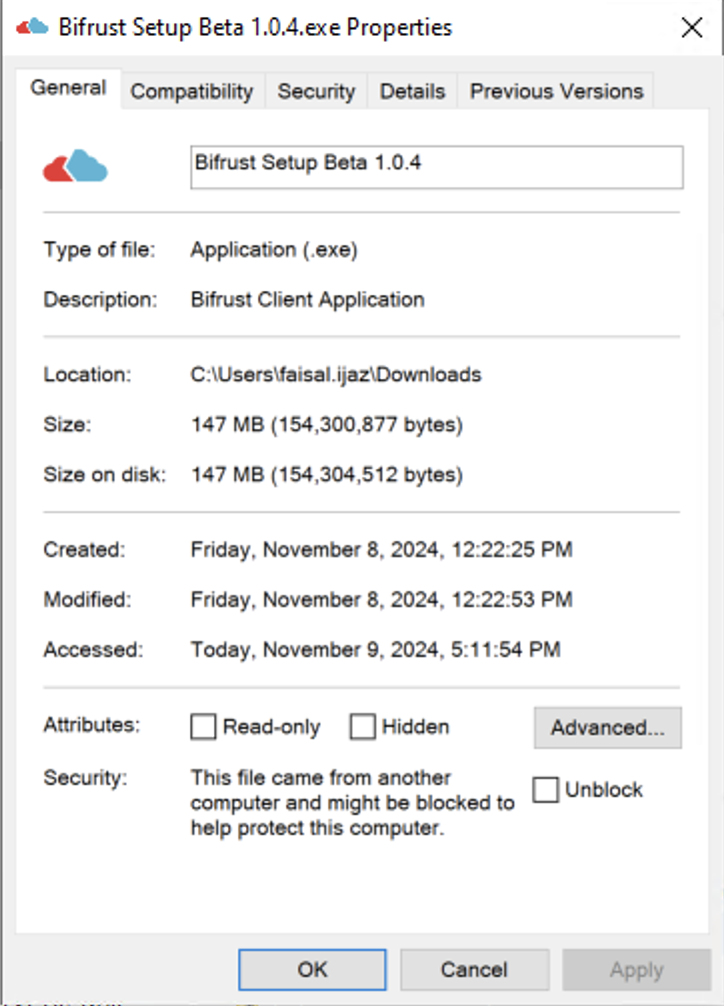
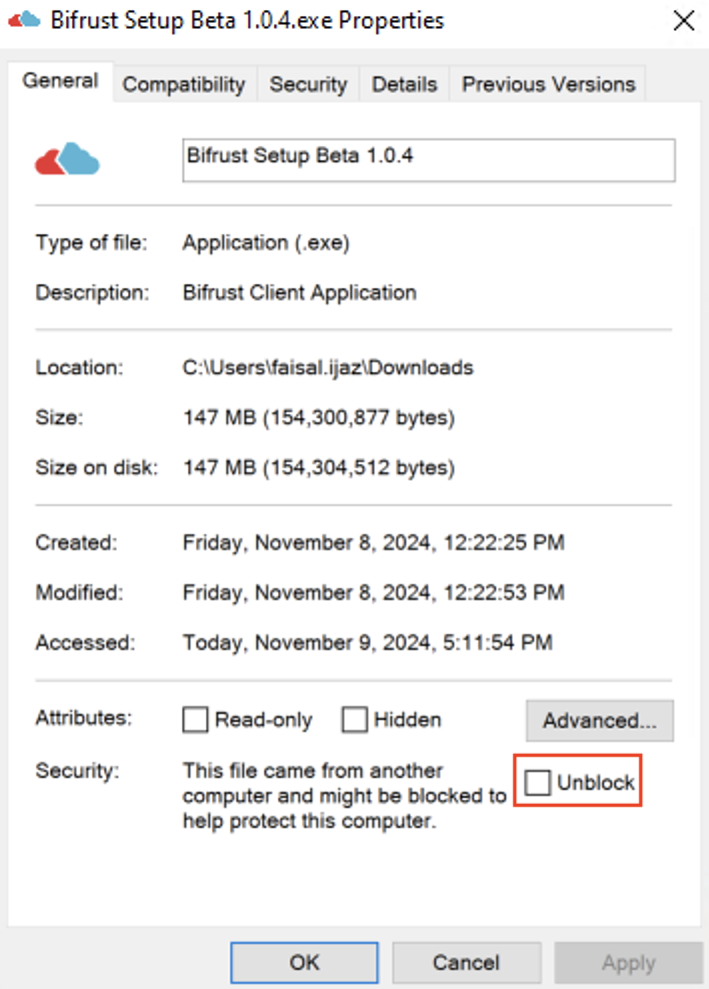
docs update

Changed region(s): [[0.0, 0.0, 0.9619, 1.0], [0.3103, 0.9403, 0.9929, 1.0], [0.9309, 0.0, 1.0, 0.0607]]

diff --git a/_docs/02-installation.md b/_docs/02-installation.md
@@ -21,15 +21,16 @@ toc: true
 
 ## Download the app
 
-1. Login to [BiFrust Website](https://bifrust.com/)
-2. Download the app
+1. Login to [www.bifrust.com](https://bifrust.com/)
+2. Download the app\
+
 
 
 ## Installing on Windows
 
-Before you can install the app, you will have to unblock the installer in windows. This is because during private Beta, we have not integrated an EV certificate. Our future updates will include this so we are recognized as an authorized app publisher with Microsoft.
+As the Bifrust app is in private Beta, we have not integrated an EV certificate and as such you have to unblock the installer on Windows. Please look out for future updates that will include this so we are recognized as an authorized app publisher with Microsoft.
 
-### Unblock the BiFrust installer
+### Unblock installer
 
 1. Right click the installer > Properties:
 2. Click on "Unblock"
@@ -42,6 +43,7 @@ Before you can install the app, you will have to unblock the installer in window
 1. Run the setup file
 2. Select the location to install BiFrust App
 3. Run the app
+4. Login and start connecting your storage devices and accounts. 
 
 
 ![loginPromptApp]({{ "/assets/images/loginPromptApp.png" | relative_url }})
